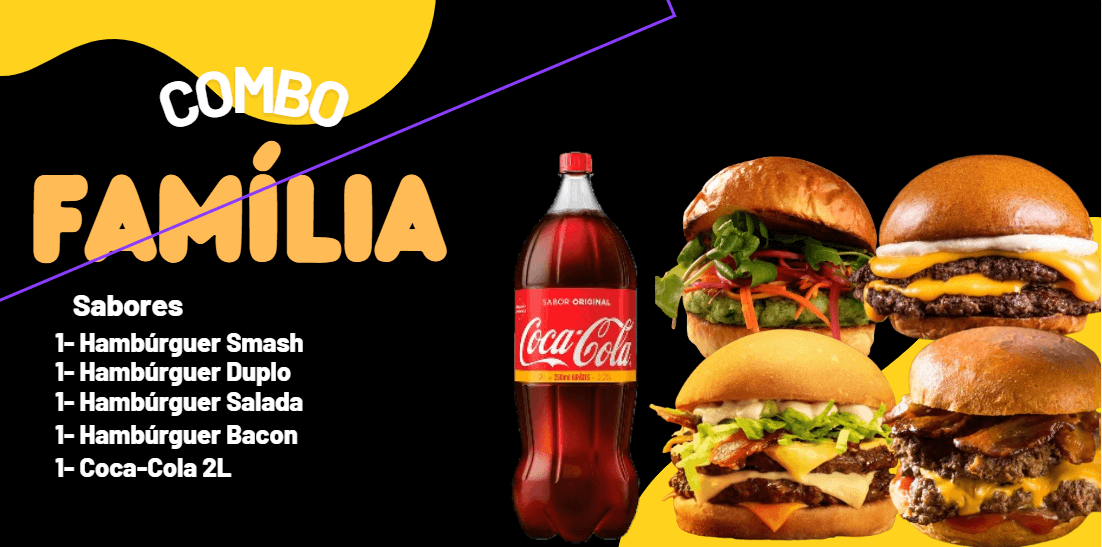
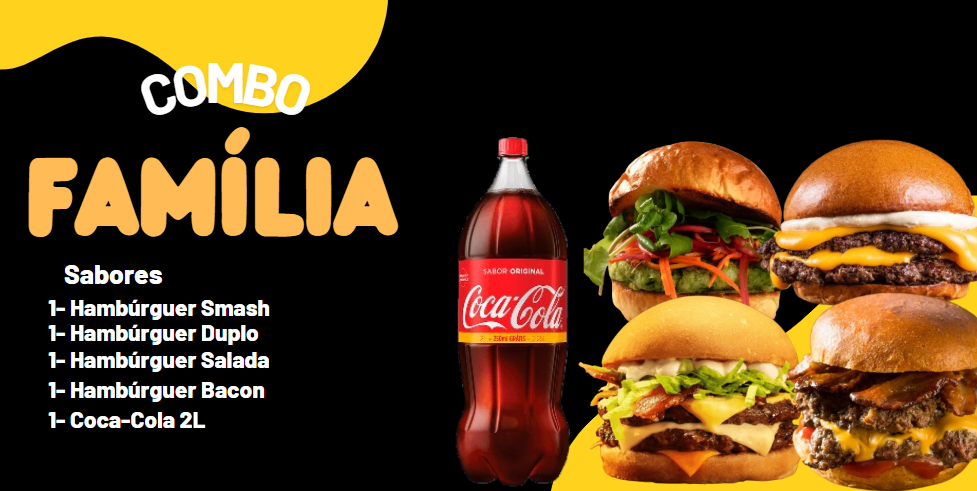
atuaçização da imagem da promoção

diff --git a/src/page/menu.html b/src/page/menu.html
@@ -217,7 +217,7 @@
         <section class="grid grid-cols-1 md:grid-cols-2 gap-7 md:gap-10 mx-auto max-w-7xl px-2 mb-16">
 
             <!--INICIO DO PRODUTO-->
-            <article class="flex gap-2 border-2 border-prime-hover shadow-2xl rounded p-3">
+            <article class="flex gap-2 border-2 shadow-2xl rounded p-3">
                 <img src="/src/img/Lanche/hamb-1.png" alt="Hambúrguer Smash"
                     class="w-28 h-28 rounded-md hover:scale-110 hover:-rotate-2 duration-300">
 
@@ -654,7 +654,7 @@
     <!--BUTTON CART FOOTER-->
     <footer class="w-full bg-nav py-2 bottom-0 z-40 flex items-center justify-center">
         <p class="flex justify-center text-center font-semibold flex-wrap text-white">
-            Copyright &copy; Todos os Direitos Reservados | Desenvolvido por:
+            Copyright &copy; 2025 Todos os Direitos Reservados | Desenvolvido por:
             <span class="ml-1">
                 <a href="https://wa.me/5561981500971" target="_blank" class="text-white no-underline cursor-pointer">
                     Dev Natanael

diff --git a/index.html b/index.html
@@ -336,7 +336,7 @@
     <!--BUTTON CART FOOTER-->
     <footer class="w-full bg-nav py-2 bottom-0 z-40 flex items-center justify-center">
         <p class="flex justify-center text-prime-laranja text-center font-semibold flex-wrap">
-            Copyright &copy; Todos os Direitos Reservados | Desenvolvido por:
+            Copyright &copy; 2025 Todos os Direitos Reservados | Desenvolvido por:
             <span class="ml-1">
                 <a href="https://wa.me/5561981500971" target="_blank"
                     class="text-prime-laranja no-underline cursor-pointer">

diff --git a/src/page/login.html b/src/page/login.html
@@ -239,7 +239,7 @@
 
     <footer class="w-full bg-nav py-2 mt-auto">
         <p class="flex justify-center text-center font-semibold flex-wrap text-white">
-            Copyright &copy; Todos os Direitos Reservados | Desenvolvido por:
+            Copyright &copy; 2025 Todos os Direitos Reservados | Desenvolvido por:
             <span class="ml-1">
                 <a href="https://wa.me/5561981500971" target="_blank" class="text-white no-underline cursor-pointer">
                     Dev Natanael
